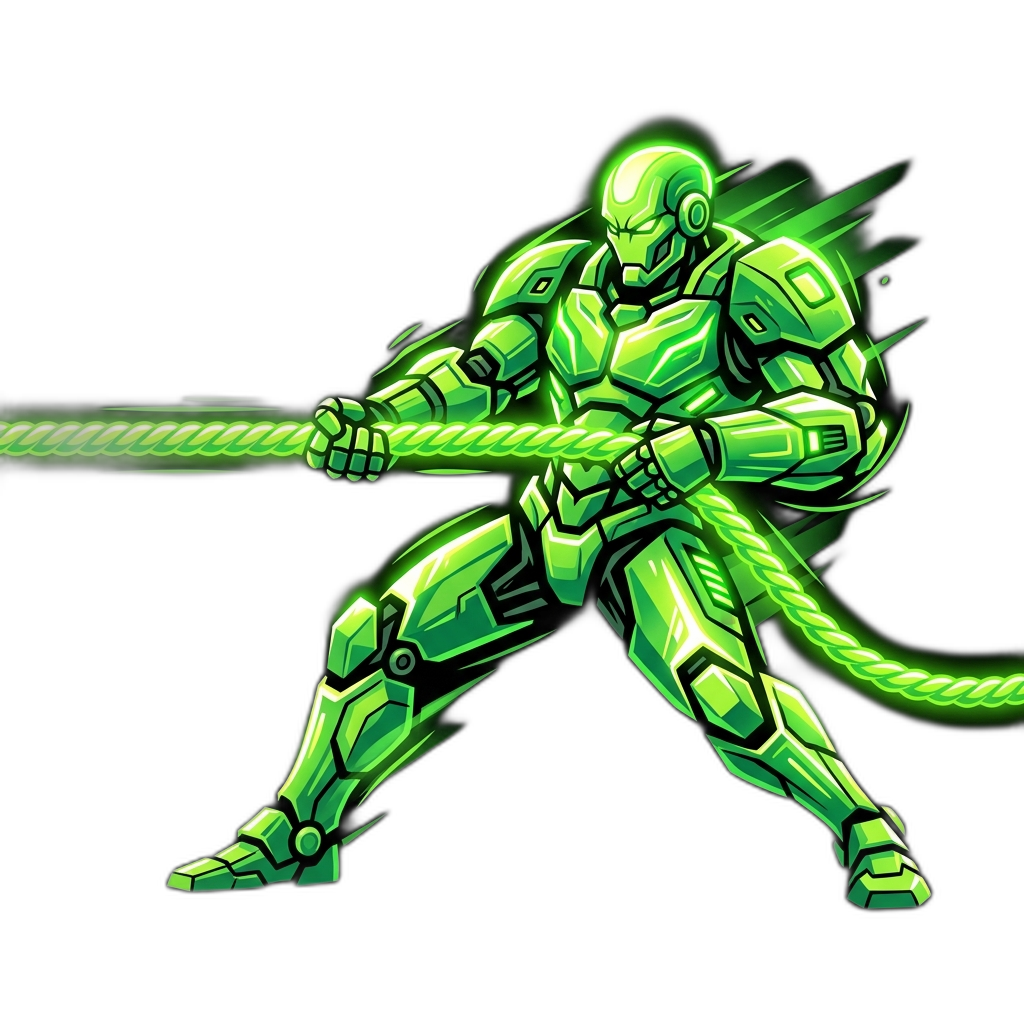
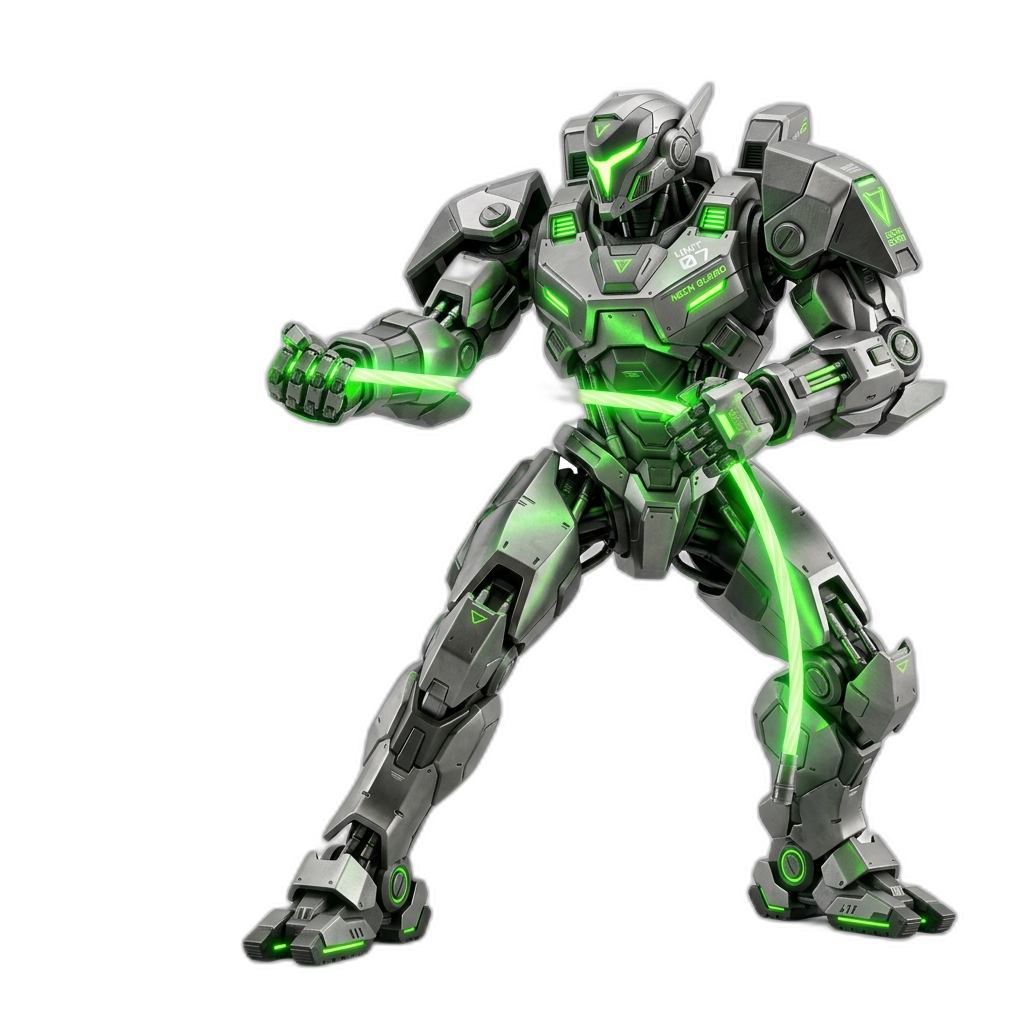
Updates

diff --git a/index.html b/index.html
@@ -21,6 +21,6 @@
   </div>
   
   <!-- Load single file JS bundle directly -->
-  <script src="./knowledge-tug-of-war.js?v=10"></script>
+  <script src="./knowledge-tug-of-war.js?v=11"></script>
 </body>
 </html>